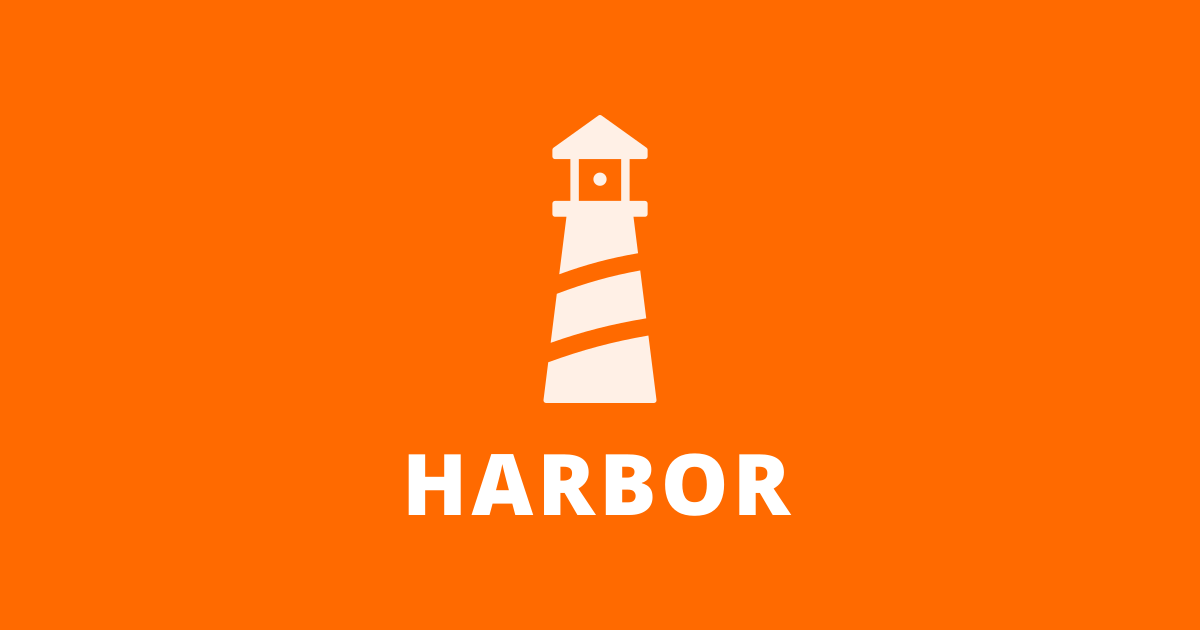
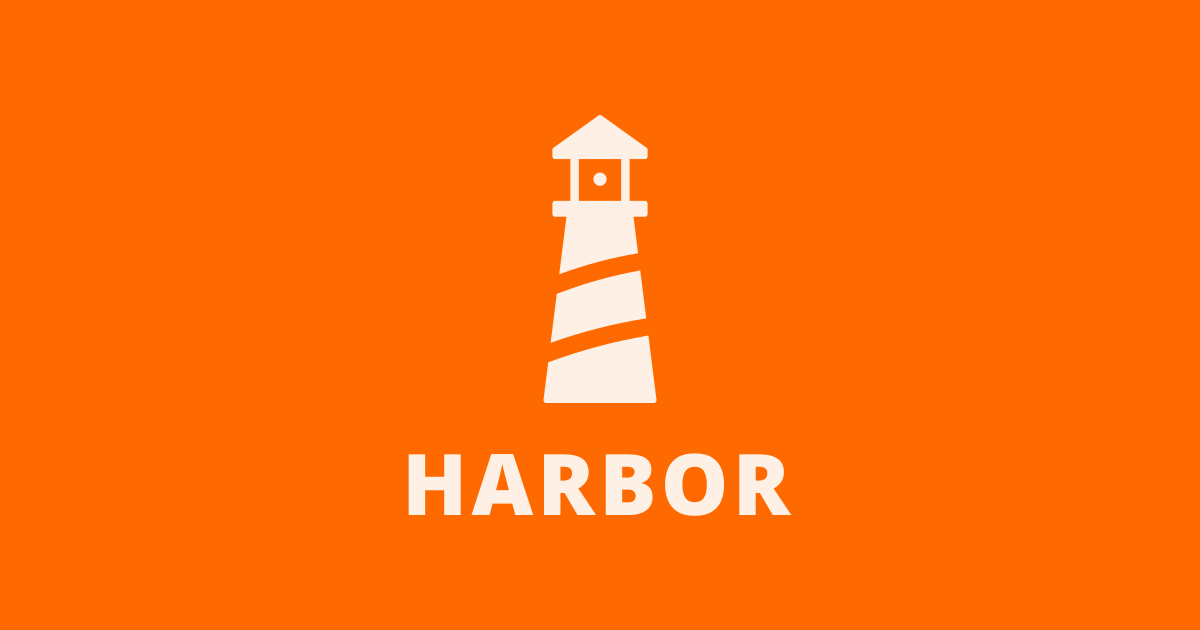
update social cards

Changed region(s): [[0.3392, 0.7238, 0.6783, 0.8143]]

diff --git a/tools/icons/generate-icons.ts b/tools/icons/generate-icons.ts
@@ -20,6 +20,7 @@ type Text = {
   letterSpacing: number;
   baselineFromBottom: number;
   fill: string;
+  opacity?: number;
 };
 type Icon = {
   files: string[];
@@ -172,7 +173,15 @@ function buildTower(
 function buildText(
   canvas: number,
   canvasHeight: number,
-  { content, font, fontSize, letterSpacing, baselineFromBottom, fill }: Text,
+  {
+    content,
+    font,
+    fontSize,
+    letterSpacing,
+    baselineFromBottom,
+    fill,
+    opacity = 1,
+  }: Text,
 ): string {
   const parsedFont = opentype.parse(
     new Uint8Array(readFileSync(join(repoRoot, font))).buffer,
@@ -187,7 +196,7 @@ function buildText(
   // Centres the letters themselves, not their advance widths
   const textBounds = textPath.getBoundingBox();
   const textX = (canvas - textBounds.x1 - textBounds.x2) / 2;
-  return `<path fill="${fill}" transform="translate(${textX} 0)" d="${textPath.toPathData(2)}"/>`;
+  return `<path fill="${fill}" fill-opacity="${opacity}" transform="translate(${textX} 0)" d="${textPath.toPathData(2)}"/>`;
 }
 
 function readSvgAttribute(svg: string, name: string): string {
